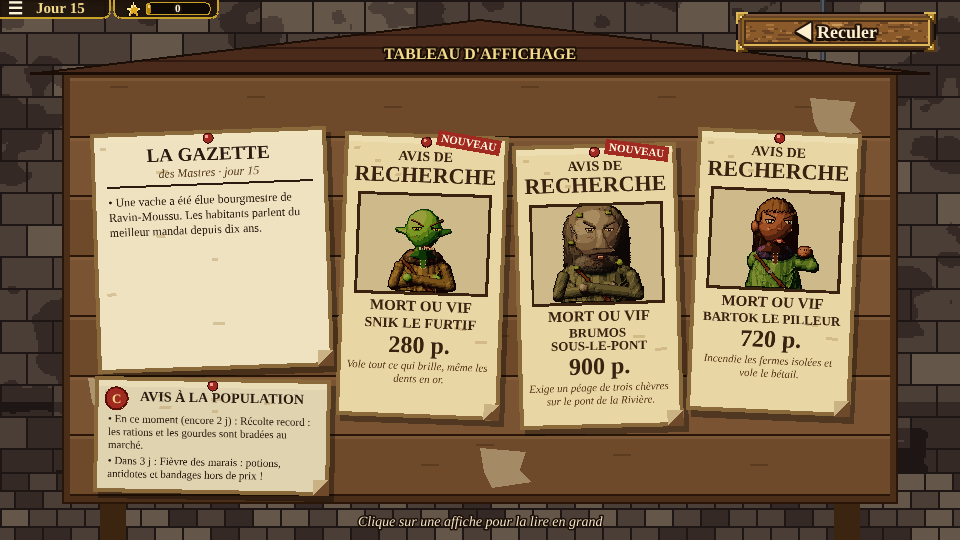
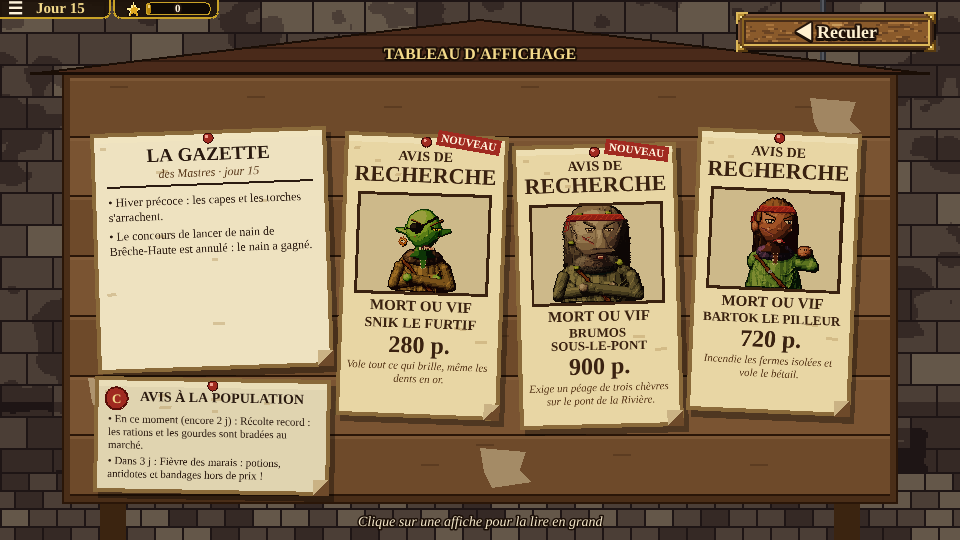
v0.75 : des signes distinctifs pour les têtes mises à prix
Cache-œil, cicatrice, balafre, dent en or, boucle d'oreille, larme
tatouée, bandana, monocle (marques dans le buste, marqueVisage).

Claude-Session: https://claude.ai/code/session_018kbaP56NxxNMUzmj9EfKBC

diff --git a/src/portraitsHD.js b/src/portraitsHD.js
@@ -240,6 +240,7 @@ function geneHD(p) {
     colporteur: p.figurant === 'colporteur',
     mendiant: p.figurant === 'mendiant',
     bande: p.costume === 'mainNoire' ? 'main' : p.costume === 'serpent' ? 'serpent' : null,   // (v0.61) les deux bandes, encapuchonnées
+    marques: p.marques || null,   // (v0.75) les signes distinctifs des bandits recherchés
     nom: p.nom,
     habitNoble: choix([0x6a1a3a, 0x1a2a6a, 0x3a1a5a, 0x7a4a10]),
   };
@@ -584,6 +585,8 @@ function dessinerBusteHD(gene, expression = 'neutre', { cligne = false, parle = 
     for (const [x, y, m, ton] of ajouts) if (t.dans(x, y) && !t.mat(x, y)) t.poser(x, y, m, ton);
   }
   if (g.vieux && TR.bandelettes) moisirBandelettes(t);
+  // (v0.75) Les signes distinctifs des bandits recherchés : on les reconnaît au premier coup d'œil
+  for (const m of g.marques || []) marqueVisage(t, m, { fx, ey, cx, v, T });
 
   t.contour();
   // (la vieille momie : une toile d'araignée tendue entre la tête et l'épaule)
@@ -1220,7 +1223,7 @@ function plisManches(t, g, v, cx, avant) {
 function textureBusteHD(scene, personne, expression = 'neutre', etat = {}) {
   // (les Bannis ont l'air fâché tant qu'ils ne te connaissent pas : leur humeur « neutre » est fâchée)
   if (expression === 'neutre' && typeof banniFache === 'function' && banniFache(personne)) expression = 'fache';
-  const cle = `busteHD_${personne.race}_${personne.nom}${personne.prestige ? "_noble" : ""}${personne.figurant ? '_' + personne.figurant : ''}${personne.vieux ? '_vieux' : ''}${personne.costume ? '_' + personne.costume : ''}_${expression}${etat.pose ? '_' + etat.pose : ''}${etat.cligne ? '_c' : ''}${etat.parle ? '_p' : ''}`;
+  const cle = `busteHD_${personne.race}_${personne.nom}${personne.marques ? '_' + personne.marques.join('-') : ''}${personne.prestige ? "_noble" : ""}${personne.figurant ? '_' + personne.figurant : ''}${personne.vieux ? '_vieux' : ''}${personne.costume ? '_' + personne.costume : ''}_${expression}${etat.pose ? '_' + etat.pose : ''}${etat.cligne ? '_c' : ''}${etat.parle ? '_p' : ''}`;
   if (!scene.textures.exists(cle)) dessinerBusteHD(geneHD(personne), expression, etat).texture(scene, cle);
   return cle;
 }
@@ -1270,4 +1273,60 @@ const TAILLE_SELON_AGE = { petit: 0.86, adulte: 1, ancien: 0.95 };
 function echelleJoueur(ancienneEchelle) {
   const stade = window.GAME && GAME.joueur ? stadeJoueur(GAME) : 'petit';
   return ancienneEchelle * 16 / JOUEUR_H * (TAILLE_SELON_AGE[stade] || 1);
+}
+
+// (v0.75) Un signe distinctif sur le visage d'un buste : cache-œil, cicatrice sur l'œil, balafre
+// sur la joue, dent en or, boucle d'oreille, tatouage, bandana de pirate, monocle.
+function marqueVisage(t, marque, { fx, ey, cx, v, T }) {
+  const surTete = (x, y) => ['peau', 'cheveux', 'museau', 'noir', 'oeil', 'blanc', 'iris', 'levres', 'barbe', 'bande', 'mousse'].includes(t.mat(x, y));
+  const trait = (x0, y0, x1, y1, mat, ton, tous = false) => {
+    const n = Math.max(Math.abs(x1 - x0), Math.abs(y1 - y0));
+    for (let i = 0; i <= n; i++) { const x = Math.round(x0 + (x1 - x0) * i / n), y = Math.round(y0 + (y1 - y0) * i / n); if (tous || surTete(x, y)) t.poser(x, y, mat, ton); }
+  };
+  if (marque === 'cacheOeil') {
+    t.rampes.cuirNoir = rampe(0x2a2018);
+    // la lanière, en biais sur le front, et de l'autre côté vers l'oreille
+    trait(fx - 5, ey - 3, fx + 13, ey - 14, 'cuirNoir', 1); trait(fx - 5, ey - 2, fx + 13, ey - 13, 'cuirNoir', 0);
+    trait(fx - 14, ey - 1, cx - v.rx - 2, ey + 1, 'cuirNoir', 1);
+    for (let y = ey - 4; y <= ey + 4; y++) for (let x = fx - 15; x <= fx - 3; x++) {
+      const u = (x + 0.5 - (fx - 9)) / 6.2, w = (y + 0.5 - ey) / 4.6;
+      if (u * u + w * w <= 1) t.poser(x, y, 'cuirNoir', u * u + w * w > 0.7 ? 0 : (u < -0.2 && w < 0 ? 3 : 2));
+    }
+  } else if (marque === 'cicatrice') {
+    // une longue cicatrice qui barre l'œil droit, avec ses points de couture
+    t.rampes.balafre = rampe(0xb86a5a);
+    trait(fx + 5, ey - 9, fx + 13, ey + 8, 'balafre', 1);
+    trait(fx + 6, ey - 9, fx + 14, ey + 8, 'balafre', 3);
+    for (const k of [0.2, 0.45, 0.7, 0.9]) { const x = Math.round(fx + 5 + 8 * k), y = Math.round(ey - 9 + 17 * k); t.poser(x - 1, y, 'balafre', 0); t.poser(x + 2, y, 'balafre', 0); }
+  } else if (marque === 'balafre') {
+    // une balafre en travers de la joue gauche
+    t.rampes.balafre = rampe(0xb06050);
+    trait(fx - 16, ey + 6, fx - 6, ey + 12, 'balafre', 1);
+    trait(fx - 16, ey + 7, fx - 6, ey + 13, 'balafre', 3);
+  } else if (marque === 'dentOr') {
+    t.rampes.or = rampe(0xe8b830);
+    t.poser(fx + 1, v.bouche + 1, 'or', 4); t.poser(fx + 2, v.bouche + 1, 'or', 3); t.poser(fx + 1, v.bouche + 2, 'or', 2); t.poser(fx + 2, v.bouche + 2, 'or', 1);
+  } else if (marque === 'boucle') {
+    // un gros anneau d'or qui pend à l'oreille dégagée
+    t.rampes.or = rampe(0xe8b830);
+    const ox = Math.round(cx - (v.rx + 0.5) - T * 0.7), oy = v.yeux + 12;
+    for (let a = 0; a < 16; a++) { const x = Math.round(ox + Math.cos(a / 16 * Math.PI * 2) * 2.6), y = Math.round(oy + Math.sin(a / 16 * Math.PI * 2) * 2.6); t.poser(x, y, 'or', a < 8 ? 2 : 4); }
+  } else if (marque === 'tatouage') {
+    // une larme tatouée sous l'œil gauche, et trois points en arc sur la pommette, à l'encre bleue
+    t.rampes.encreBleue = rampe(0x2a4a8a);
+    const lx = fx - 10, ly = ey + 6;
+    t.poser(lx, ly, 'encreBleue', 2); t.poser(lx, ly + 1, 'encreBleue', 2); t.poser(lx - 1, ly + 2, 'encreBleue', 1); t.poser(lx + 1, ly + 2, 'encreBleue', 2); t.poser(lx, ly + 2, 'encreBleue', 3); t.poser(lx, ly + 3, 'encreBleue', 1);
+    for (const [dx, dy] of [[-6, 3], [-4, 5], [-1, 6]]) t.poser(fx - 6 + dx, ey + 4 + dy, 'encreBleue', 2);
+  } else if (marque === 'bandeau') {
+    // un bandana rouge de pirate noué sur le front, les pans qui pendent sur le côté
+    t.rampes.bandana = rampe(0xa82a24);
+    for (let y = ey - 13; y <= ey - 8; y++) for (let x = 0; x < t.l; x++) if (surTete(x, y)) t.poser(x, y, 'bandana', y === ey - 13 ? 4 : y === ey - 8 ? 1 : ((x + y) % 5 === 0 ? 4 : 3));
+    const bx = Math.round(cx - v.rx - 2);
+    for (let j = 0; j < 9; j++) { t.poser(bx - 1 - (j >> 2), ey - 8 + j, 'bandana', 2); t.poser(bx - 3 - (j >> 2), ey - 7 + j, 'bandana', 3); }
+  } else if (marque === 'monocle') {
+    // un monocle cerclé d'or sur l'œil droit, et sa chaînette
+    t.rampes.or = rampe(0xe8b830);
+    for (let a = 0; a < 28; a++) { const x = Math.round(fx + 8 + Math.cos(a / 28 * Math.PI * 2) * 5.5), y = Math.round(ey + 0.5 + Math.sin(a / 28 * Math.PI * 2) * 5); t.poser(x, y, 'or', a < 14 ? 2 : 4); }
+    trait(fx + 13, ey + 3, fx + 17, ey + 20, 'or', 3, true);
+  }
 }

diff --git a/src/data.js b/src/data.js
@@ -2014,12 +2014,12 @@ const RELIQUES_FAUCHEUSE = [
 // (v0.74) Le tableau d'affichage du marché : les avis de recherche, façon primes de pirates.
 // Trois têtes affichées chaque semaine ; plus un bandit court, plus sa prime grimpe.
 const AVIS_RECHERCHE = [
-  { nom: 'Rufus la Belette', personne: { nom: 'Rufus', race: 'humain', figurant: 'brigand' }, crime: 'Détrousse les voyageurs sur la route des Collines.', prime: 320 },
-  { nom: 'Mélisande Mains-Vives', personne: { nom: 'Mélisande', race: 'humain', figurant: 'brigande', feminin: true }, crime: 'A vidé les coffres de trois auberges en une seule nuit.', prime: 450 },
-  { nom: 'Bartok le Pilleur', personne: { nom: 'Bartok', race: 'humain', figurant: 'pillard' }, crime: 'Incendie les fermes isolées et vole le bétail.', prime: 600 },
-  { nom: 'Yara Sang-Froid', personne: { nom: 'Yara', race: 'humain', figurant: 'pillarde', feminin: true }, crime: 'Cheffe d\'une bande de pillards des Terres sauvages.', prime: 780 },
-  { nom: 'Snik le Furtif', personne: { nom: 'Snik', race: 'gobelin', niveau: 'aguerri' }, crime: 'Vole tout ce qui brille, même les dents en or.', prime: 280 },
-  { nom: 'Grok Fend-Crâne', personne: { nom: 'Grok', race: 'orc', niveau: 'veteran' }, crime: 'A défoncé les portes de la garnison du Gué à mains nues.', prime: 1200 },
-  { nom: 'Vorag le Comte Pâle', personne: { nom: 'Vorag', race: 'vampire', niveau: 'veteran' }, crime: 'Rôde la nuit autour des bergeries. On a retrouvé les moutons... pâles.', prime: 1500 },
-  { nom: 'Brumos sous-le-Pont', personne: { nom: 'Brumos', race: 'troll', niveau: 'aguerri' }, crime: 'Exige un péage de trois chèvres sur le pont de la Rivière.', prime: 900 },
+  { nom: 'Rufus la Belette', personne: { nom: 'Rufus', race: 'humain', figurant: 'brigand', marques: ['cacheOeil', 'dentOr'] }, crime: 'Détrousse les voyageurs sur la route des Collines.', prime: 320 },
+  { nom: 'Mélisande Mains-Vives', personne: { nom: 'Mélisande', race: 'humain', figurant: 'brigande', feminin: true, marques: ['cicatrice', 'boucle'] }, crime: 'A vidé les coffres de trois auberges en une seule nuit.', prime: 450 },
+  { nom: 'Bartok le Pilleur', personne: { nom: 'Bartok', race: 'humain', figurant: 'pillard', marques: ['balafre', 'bandeau'] }, crime: 'Incendie les fermes isolées et vole le bétail.', prime: 600 },
+  { nom: 'Yara Sang-Froid', personne: { nom: 'Yara', race: 'humain', figurant: 'pillarde', feminin: true, marques: ['tatouage', 'boucle'] }, crime: 'Cheffe d\'une bande de pillards des Terres sauvages.', prime: 780 },
+  { nom: 'Snik le Furtif', personne: { nom: 'Snik', race: 'gobelin', niveau: 'aguerri', marques: ['cacheOeil', 'boucle'] }, crime: 'Vole tout ce qui brille, même les dents en or.', prime: 280 },
+  { nom: 'Grok Fend-Crâne', personne: { nom: 'Grok', race: 'orc', niveau: 'veteran', marques: ['cicatrice', 'balafre', 'dentOr'] }, crime: 'A défoncé les portes de la garnison du Gué à mains nues.', prime: 1200 },
+  { nom: 'Vorag le Comte Pâle', personne: { nom: 'Vorag', race: 'vampire', niveau: 'veteran', marques: ['monocle'] }, crime: 'Rôde la nuit autour des bergeries. On a retrouvé les moutons... pâles.', prime: 1500 },
+  { nom: 'Brumos sous-le-Pont', personne: { nom: 'Brumos', race: 'troll', niveau: 'aguerri', marques: ['bandeau', 'balafre'] }, crime: 'Exige un péage de trois chèvres sur le pont de la Rivière.', prime: 900 },
 ];

diff --git a/src/main.js b/src/main.js
@@ -1,5 +1,5 @@
 // La version du jeu (affichée sur l'écran titre) : on l'augmente à chaque mise à jour publiée.
-const VERSION_JEU = 'v 0.74';
+const VERSION_JEU = 'v 0.75';
 // Point d'entrée : configuration de Phaser et liste des scènes.
 
 // Le jeu est en pixel art (pixels nets), mais les textes doivent rester lisses et lisibles :

diff --git a/docs/game-design.md b/docs/game-design.md
@@ -325,7 +325,8 @@ Chaque étape doit donner une version **jouable**.
 | v 0.71 | **Nouvelle fumée, nouvelle eau** (validées le 17/10 ; le feu garde son dessin, à améliorer plus tard) | Particules CC0 de Kenney ramenées à notre grille et à notre palette (`assets/fx`, `docs/essais-assets`) : la fumée de la cheminée monte en vraies bouffées qui s'élargissent et dérivent ; les éclaboussures (pièce dans la fontaine, chutes dans l'eau des récits, Garrick qui sort de la rivière) ont une couronne de jets, des gouttes en cloche et des ronds. Au comptoir, la ligne d'arme dit « (ou une autre arme) » : n'importe quelle arme remplit la commande, celle du peuple du client donne un petit bonus. |
 | v 0.72 | **Grippesou t'accueille à bras ouverts** (validé) | À l'Express, le gobelin est maintenant de face, les bras levés en V grands ouverts, les jambes bien campées, un large sourire sans froncer les sourcils, et il sautille d'impatience : il sait qu'il va faire affaire. Nouvelle pose « accueil » du moteur de corps, réutilisable pour d'autres PNJ. |
 | v 0.73 | **Le sourire du Grinch, narrateur et paroles séparés, plus de vert sur vert** (validés) | Grippesou t'accueille avec un sourire immense façon Grinch (un croissant de dents qui remonte jusqu'aux joues). Chez le mendiant, la bulle ne contient plus que ses paroles ; ce qui se passe (le chien qui mange, le trèfle) est raconté à part, dans un bandeau sombre de narrateur. Sur les étals zoomés, le nom et « tu en as » sont posés sur une plaque sombre (plus de texte vert sur la toile verte) ; les onomatopées vertes des récits en forêt et au marais passent en tons chauds. |
-| v 0.74 | **Le tableau d'affichage du marché** (à valider) | Un panneau de bois sous un petit toit, à côté du crieur (la rue s'élargit un peu pour lui). Un « ! » au-dessus quand il y a du neuf (événement qui commence ou finit, nouvelles têtes mises à prix le premier jour de la semaine). De près : **la Gazette des Mastres** (les nouvelles du jour, sans le papier du marché noir), **l'Avis à la population** (événements en cours et à venir) et **trois avis de recherche façon primes de pirates** (« AVIS DE RECHERCHE », portrait sépia, « MORT OU VIF », nom, prime en gros chiffres, le crime). Huit bandits tournent chaque semaine ; plus un bandit reste affiché, plus sa prime grimpe (+20 % par semaine). Un clic sur une affiche la décroche pour la lire en grand. Prochaine étape (lot A) : un visage recherché peut venir dans la file (lumière : le dénoncer pour la prime ; ombre : le cacher). |
+| v 0.74 | **Le tableau d'affichage du marché** (design validé le 18/10) | Un panneau de bois sous un petit toit, à côté du crieur (la rue s'élargit un peu pour lui). Un « ! » au-dessus quand il y a du neuf (événement qui commence ou finit, nouvelles têtes mises à prix le premier jour de la semaine). De près : **la Gazette des Mastres** (les nouvelles du jour, sans le papier du marché noir), **l'Avis à la population** (événements en cours et à venir) et **trois avis de recherche façon primes de pirates** (« AVIS DE RECHERCHE », portrait sépia, « MORT OU VIF », nom, prime en gros chiffres, le crime). Huit bandits tournent chaque semaine ; plus un bandit reste affiché, plus sa prime grimpe (+20 % par semaine). Un clic sur une affiche la décroche pour la lire en grand. Prochaine étape (lot A) : un visage recherché peut venir dans la file (lumière : le dénoncer pour la prime ; ombre : le cacher). |
+| v 0.75 | **Des bandits reconnaissables** (à valider) | Chaque tête mise à prix a ses signes distinctifs, pour la reconnaître au premier coup d'œil (et plus tard dans la file du comptoir) : cache-œil (Rufus, Snik), cicatrice cousue sur l'œil (Mélisande, Grok), balafre sur la joue (Bartok, Grok, Brumos), dent en or (Rufus, Grok), anneau d'or à l'oreille (Mélisande, Yara, Snik), larme tatouée (Yara), bandana rouge de pirate (Bartok, Brumos), monocle cerclé d'or (Vorag). Planche : `avis-recherche-visages.png`. |
 | 10b | **La forge chez soi** (validé) | À ★3 (le saut d'un an), on peut construire une forge dans l'arrière-boutique et engager un premier forgeron ; un second à ★4. Chaque nuit, ils fabriquent des armes avec les matériaux en stock. |
 | 10c | **La rue et le familier** (validé : le chat chasse les rats de la réserve et prévient parfois de la garde) | La rue du comptoir s'agrandit : on y marche avec son personnage jusqu'aux lieux du quartier (marché, banque, forge, fontaine, plus tard le petit bar), en plus des raccourcis depuis la maison. En s'y promenant le soir, on croise le chat de gouttière : on le nourrit quelques soirs de suite, et il nous adopte (premier familier). |
 | 11 | **Aider pendant l'aventure** | Messages de détresse, le grand aigle, les mercenaires. |
